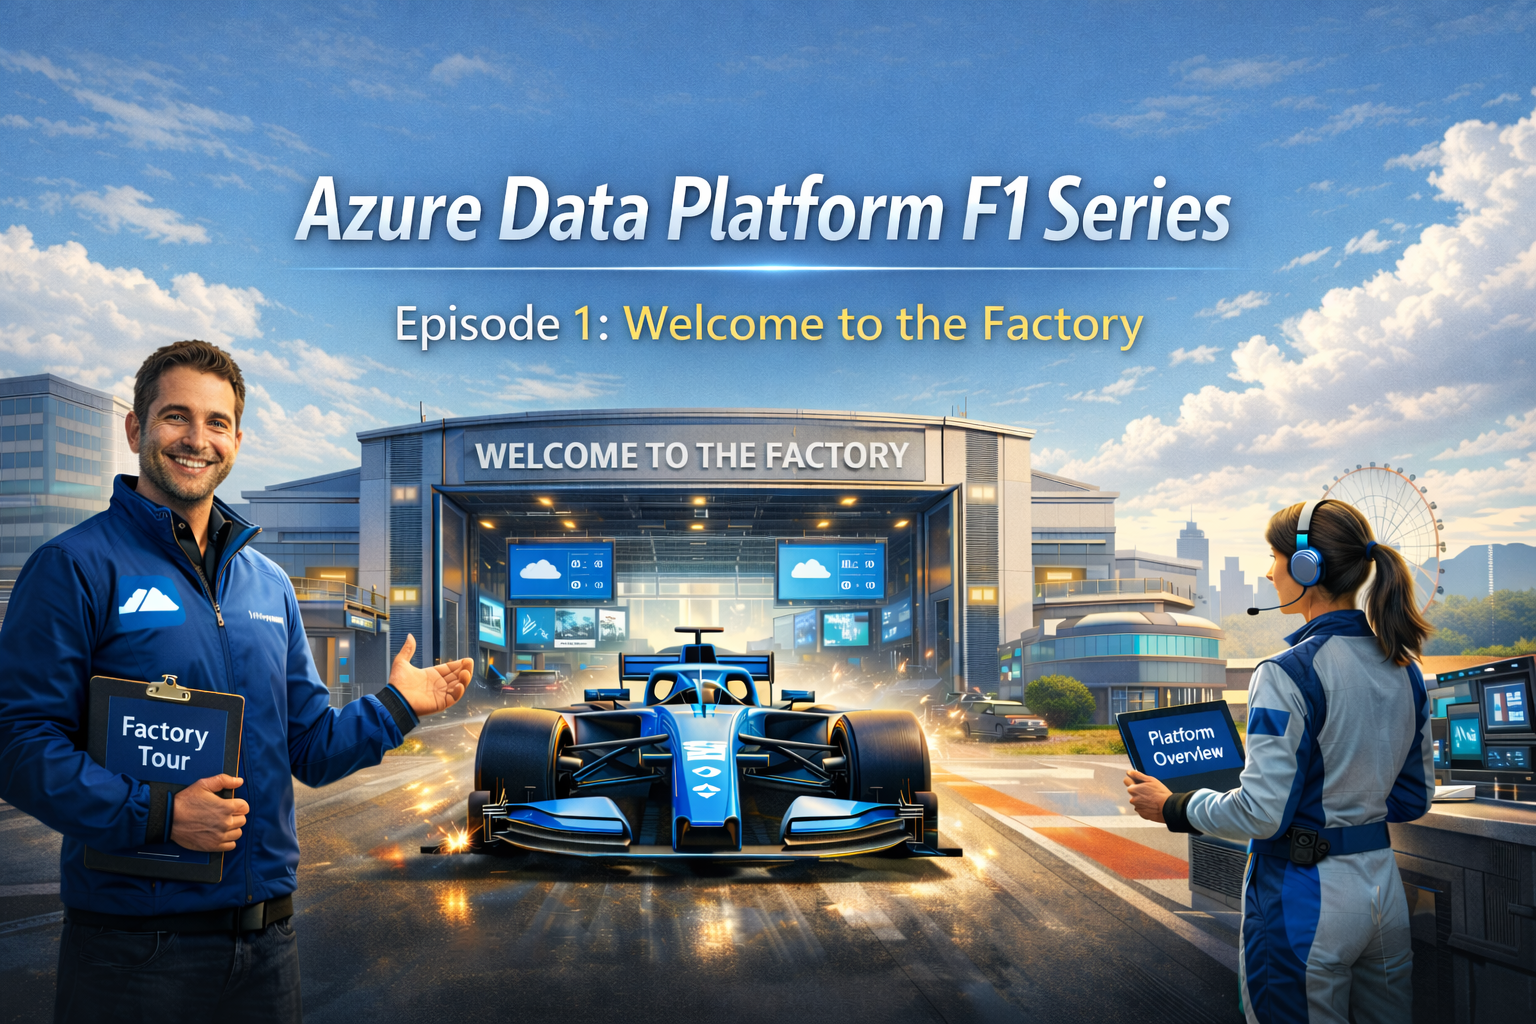
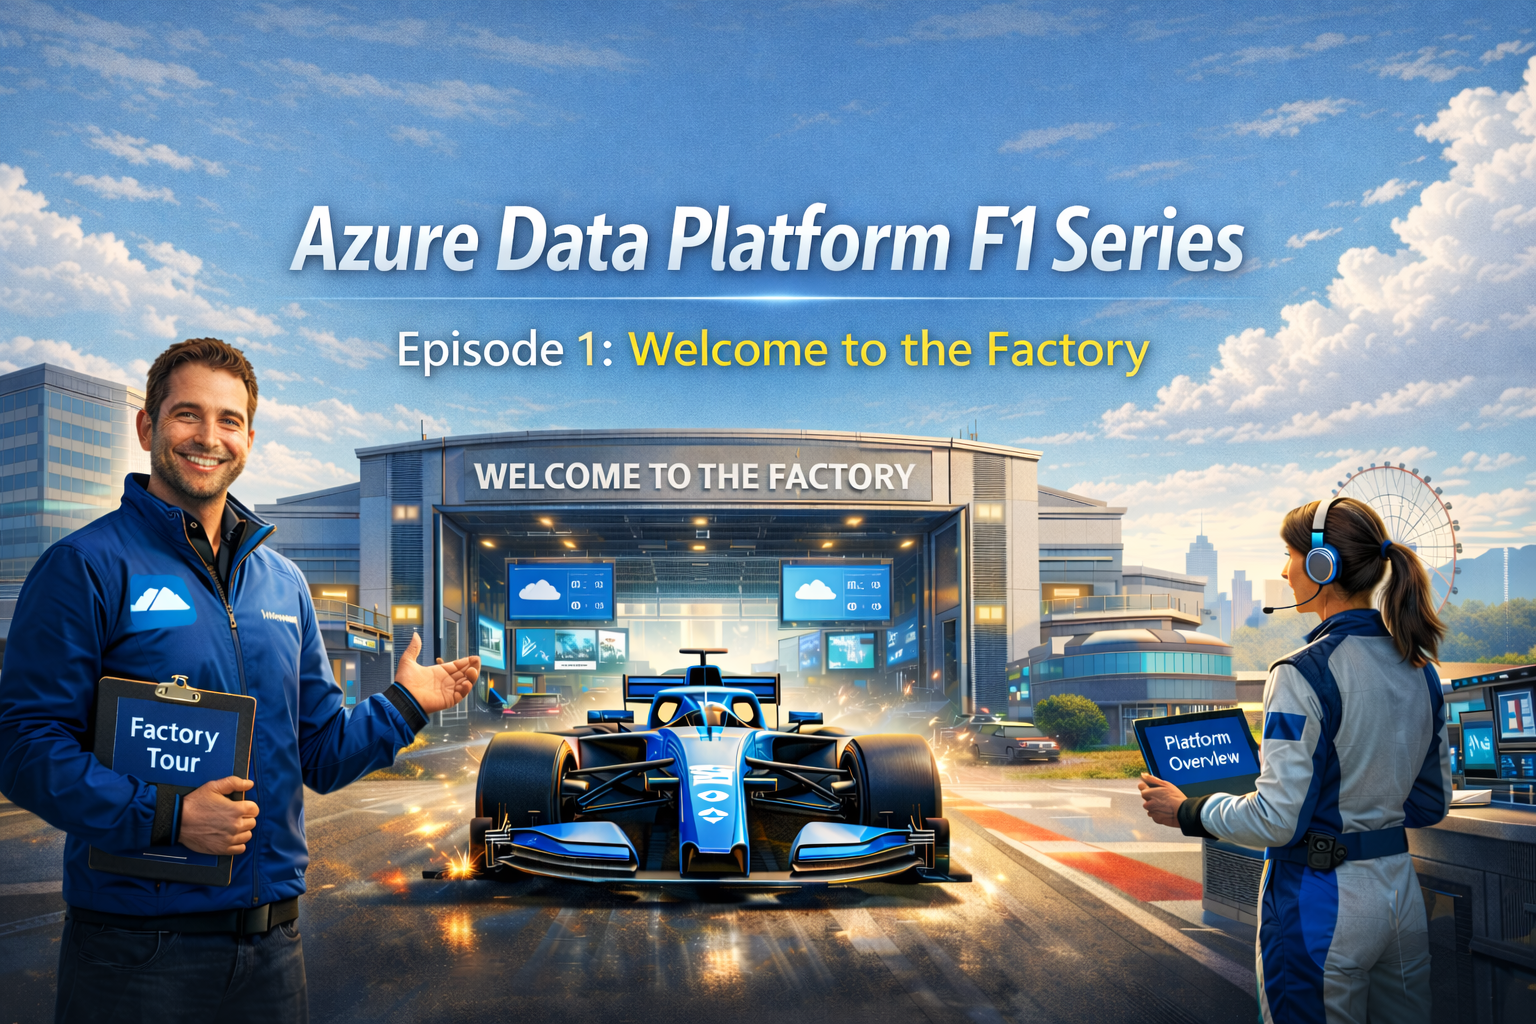
Lowere the title yet a bit more

diff --git a/scripts/prompt-cli.py b/scripts/prompt-cli.py
@@ -33,7 +33,7 @@ DEFAULT_CONFIG = {
     "image_title_safe_left_right_percent": 12,
     # DEV.to cover images are frequently cropped (especially on top) depending
     # on layout and viewport. Use conservative safe areas for any typography.
-    "image_title_safe_top_percent": 48,
+    "image_title_safe_top_percent": 52,
     "image_title_safe_bottom_percent": 18,
     "image_style": (
         "cinematic digital illustration, highly detailed, "
@@ -254,7 +254,7 @@ def build_title_safety_block(series_name, episode_number, title, config):
         "Placement target (important):\n"
         f"- Treat the top {top}% of the image as a NO-TEXT zone.\n"
         "- Place the series title so its cap-height starts below that zone.\n"
-        "- Aim for the title block center around ~60% of image height.\n"
+        "- Aim for the title block center around ~65% of image height.\n"
         "- Place the subtitle below the series title (not above).\n\n"
         "Exact text to include:\n"
         "Top title:\n"
